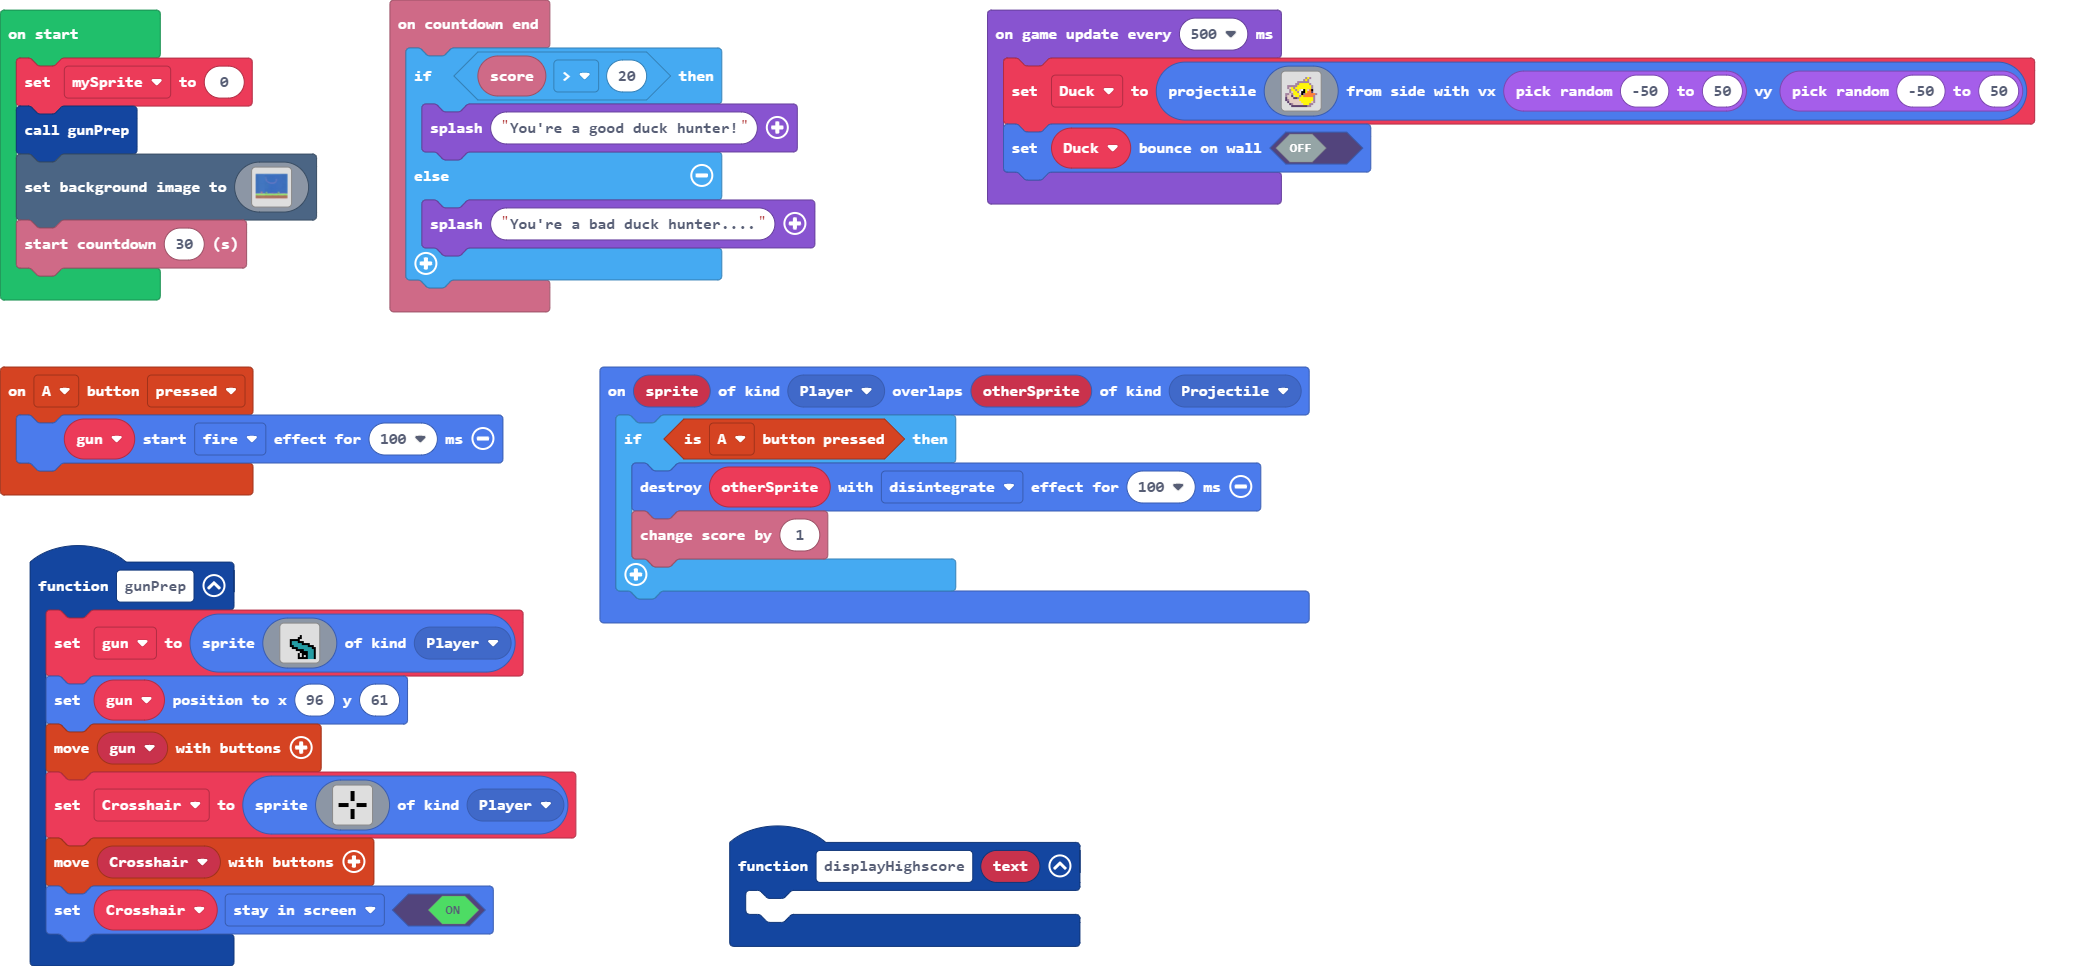
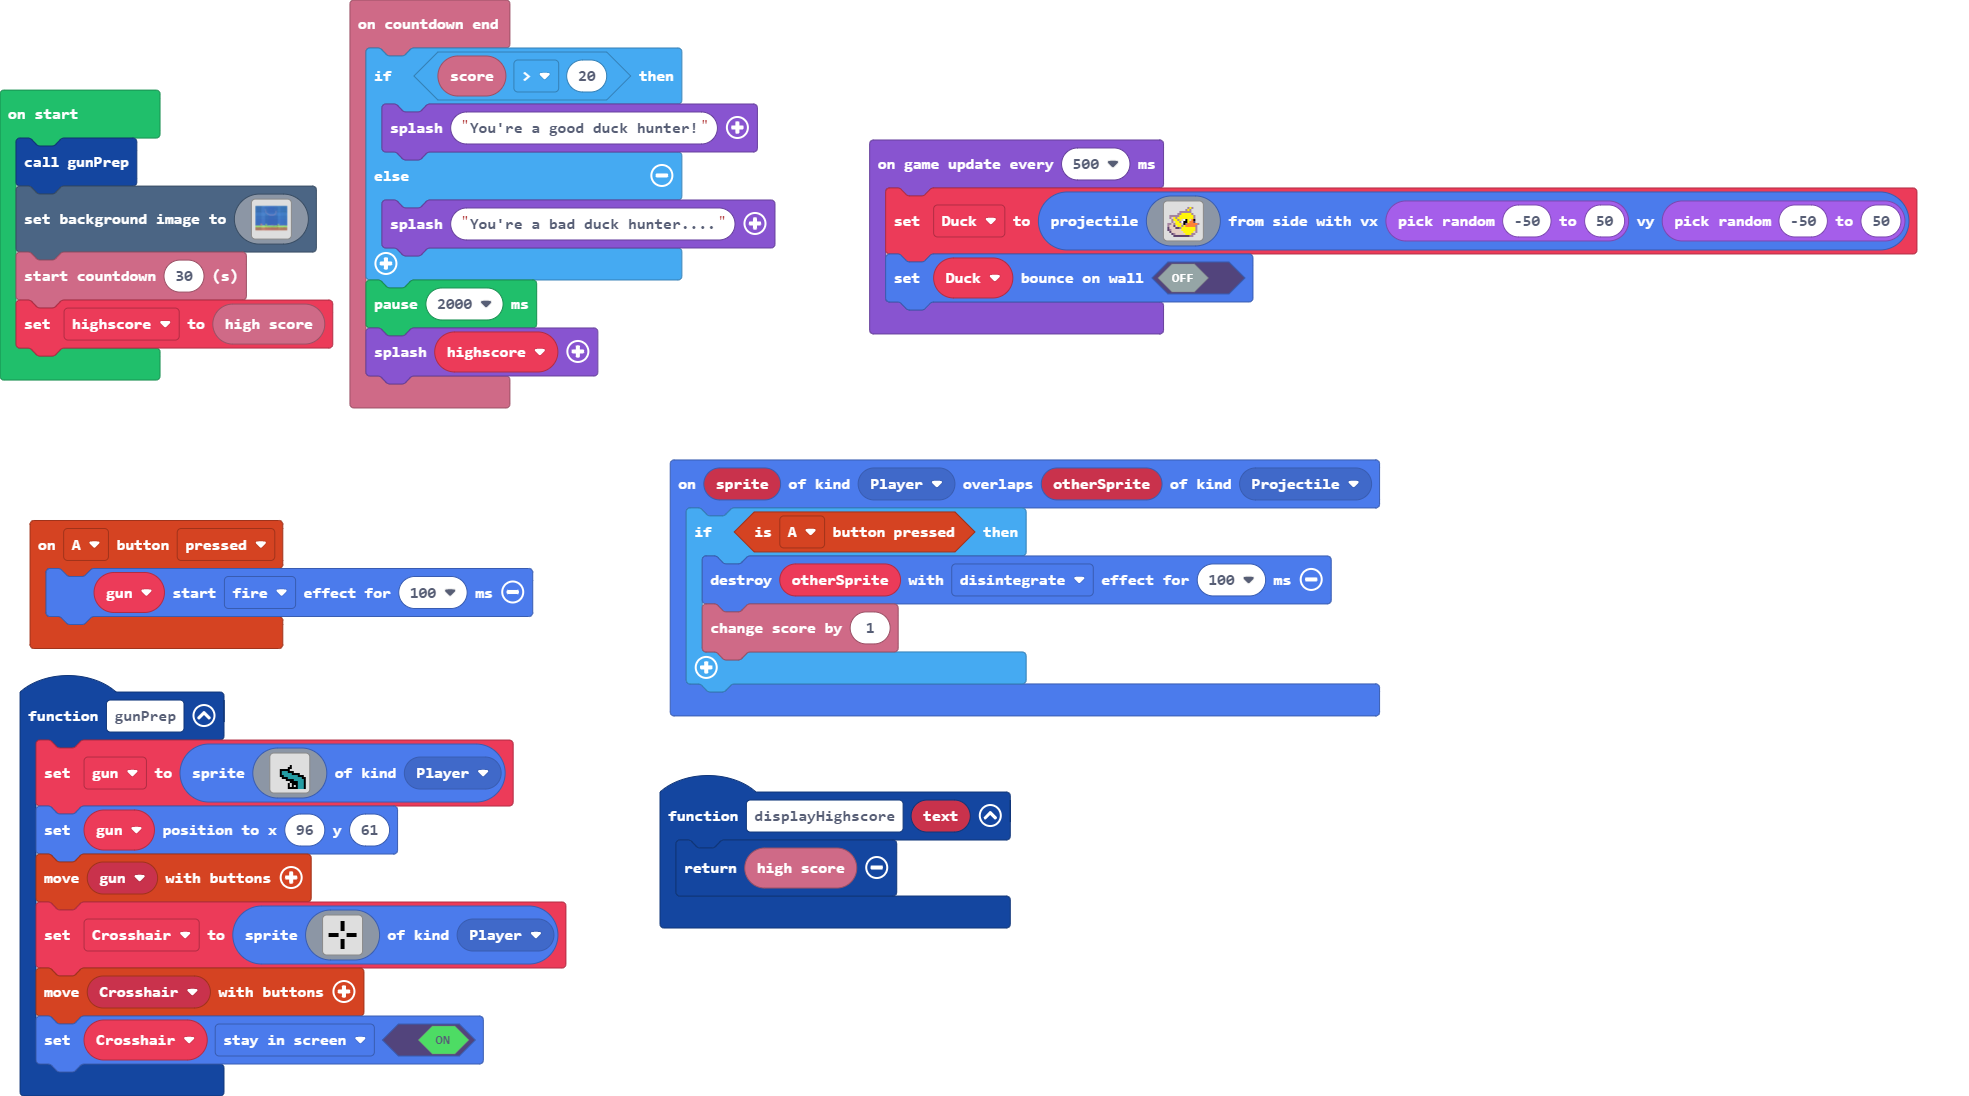
Update main.blocks, main.ts

diff --git a/main.ts b/main.ts
@@ -7,6 +7,8 @@ info.onCountdownEnd(function () {
     } else {
         game.splash("You're a bad duck hunter....")
     }
+    pause(2000)
+    game.splash(highscore)
 })
 sprites.onOverlap(SpriteKind.Player, SpriteKind.Projectile, function (sprite, otherSprite) {
     if (controller.A.isPressed()) {
@@ -57,12 +59,12 @@ function gunPrep () {
     Crosshair.setFlag(SpriteFlag.StayInScreen, true)
 }
 function displayHighscore (text: string) {
-	
+    return info.highScore()
 }
 let Duck: Sprite = null
 let Crosshair: Sprite = null
 let gun: Sprite = null
-let mySprite = 0
+let highscore = 0
 gunPrep()
 scene.setBackgroundImage(img`
     888888888888888888888888888888888888888888888888888888888888888888888888888888888888888888888888888888888888888888888888888888888888888888888888888888888888888
@@ -187,6 +189,7 @@ scene.setBackgroundImage(img`
     eeeeeeeeeeeeeeeeeeeeeeeeeeeeeeeeeeeeeeeeeeeeeeeeeeeeeeeeeeeeeeeeeeeeeeeeeeeeeeeeeeeeeeeeeeeeeeeeeeeeeeeeeeeeeeeeeeeeeeeeeeeeeeeeeeeeeeeeeeeeeeeeeeeeeeeeeeeeeee
     `)
 info.startCountdown(30)
+highscore = info.highScore()
 game.onUpdateInterval(500, function () {
     Duck = sprites.createProjectileFromSide(img`
         . . . . . . . . . . . . . . . . 
